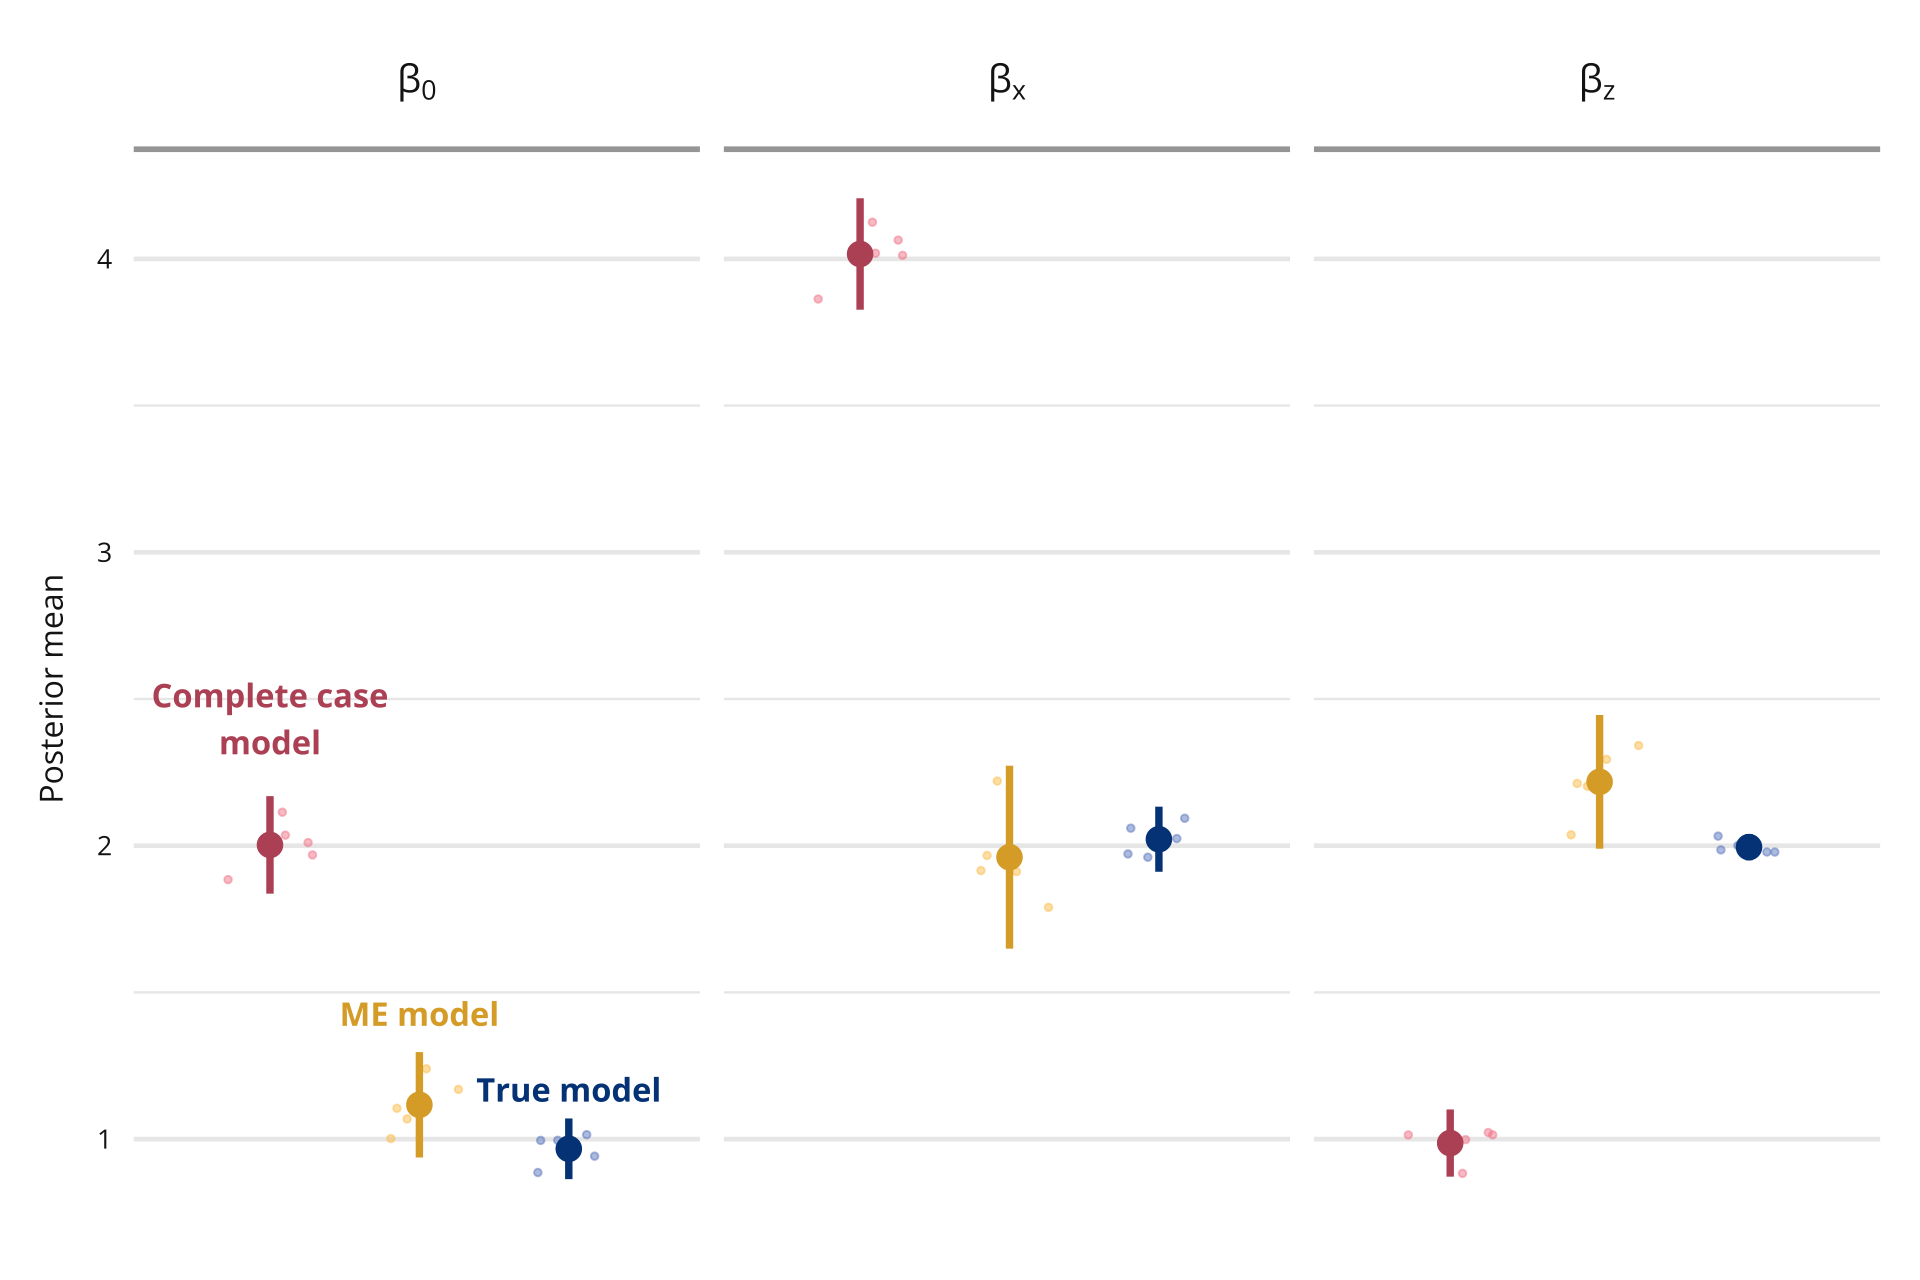
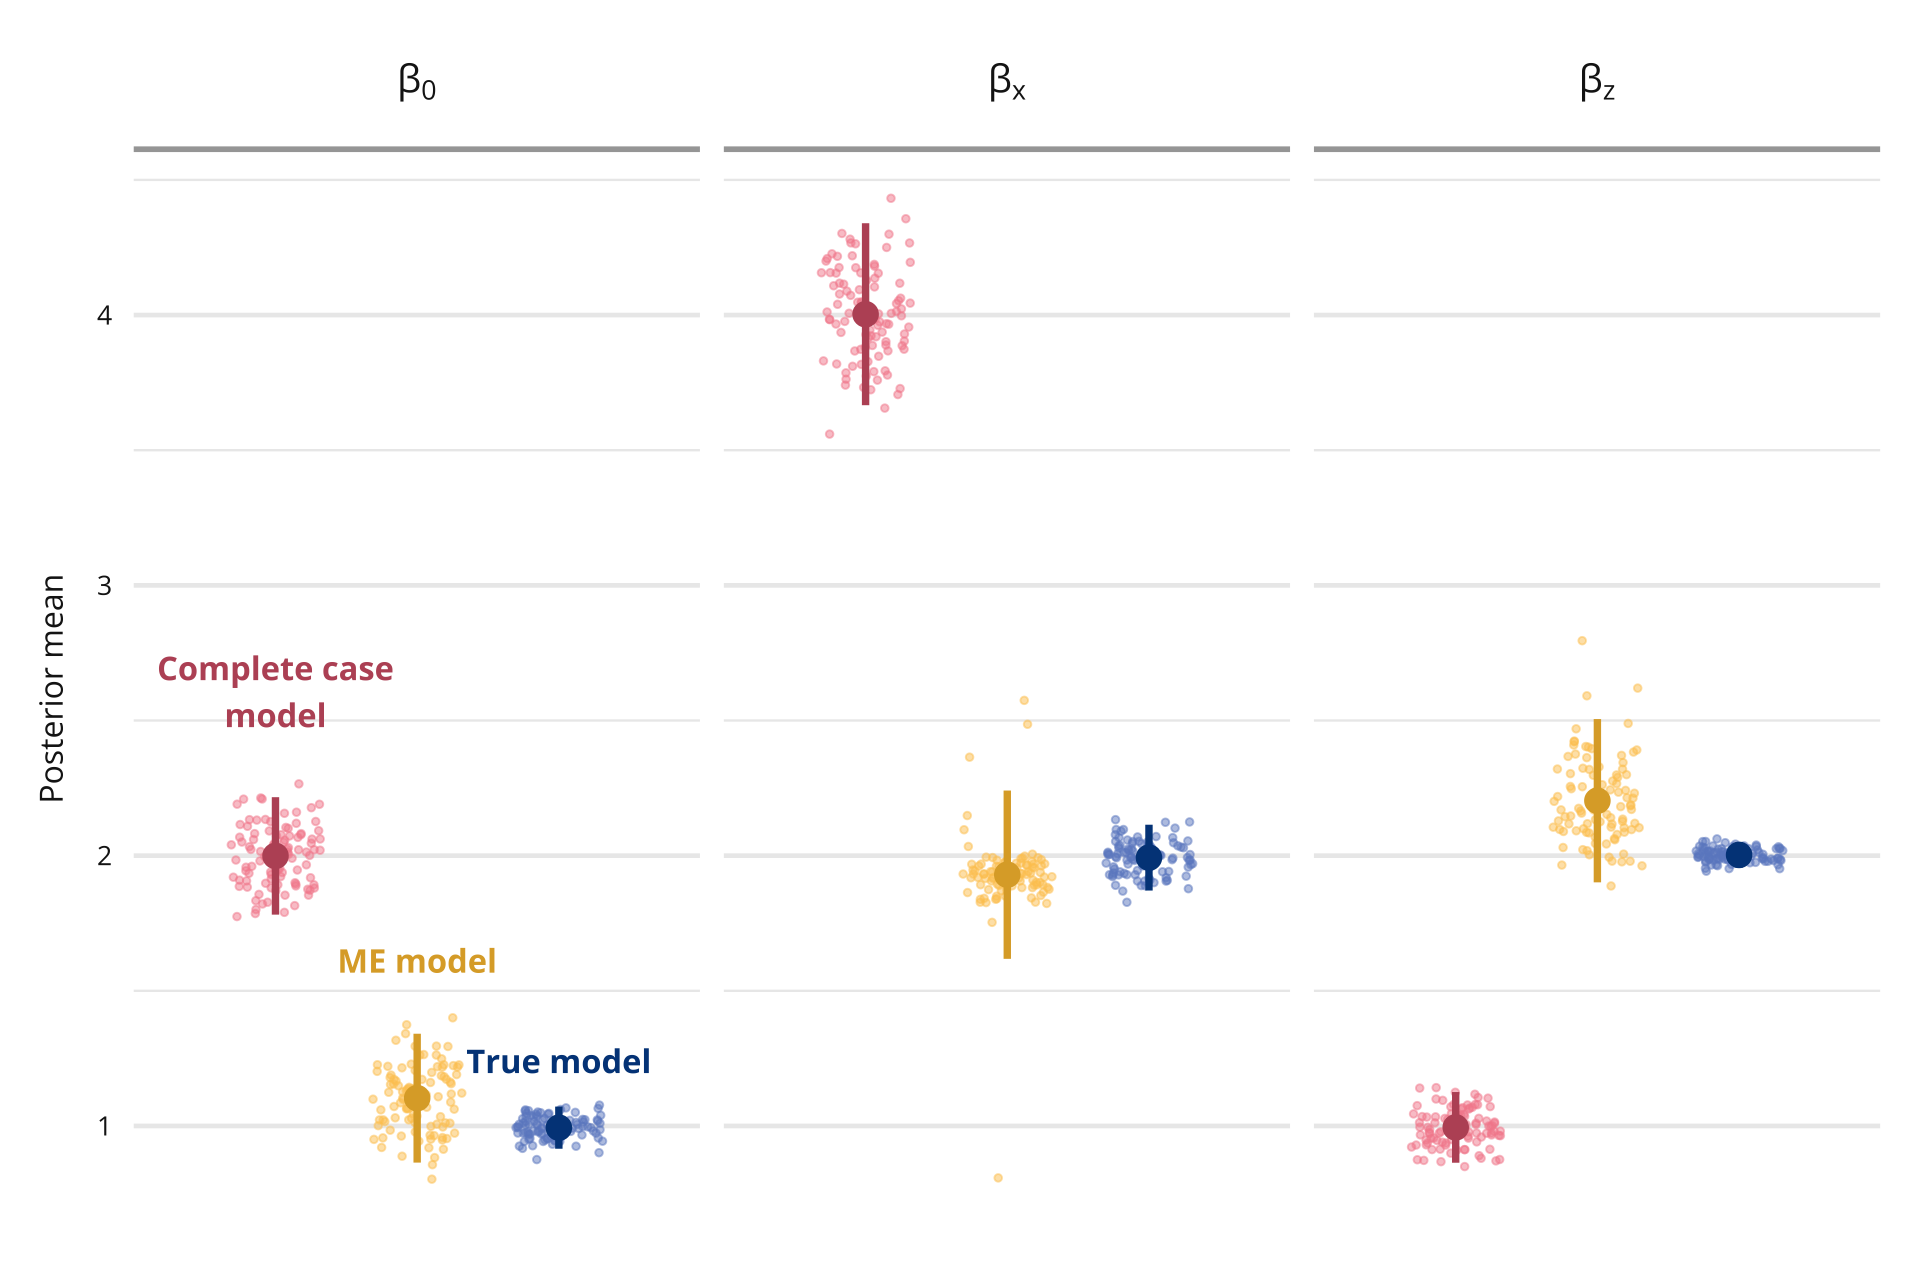
Updated simulation study (ran 100 times)

diff --git a/docs/simulation_study.html b/docs/simulation_study.html
@@ -493,7 +493,7 @@ code span.wa { color: #60a0b0; font-weight: bold; font-style: italic; } /* Warni
 <p>Note that this chunk may take a while to run.</p>
 <div class="cell">
 <div class="sourceCode cell-code" id="cb6"><pre class="sourceCode r code-with-copy"><code class="sourceCode r"><span id="cb6-1"><a href="#cb6-1" aria-hidden="true" tabindex="-1"></a><span class="co"># Number of iterations</span></span>
-<span id="cb6-2"><a href="#cb6-2" aria-hidden="true" tabindex="-1"></a>niter <span class="ot">&lt;-</span> <span class="dv">5</span></span>
+<span id="cb6-2"><a href="#cb6-2" aria-hidden="true" tabindex="-1"></a>niter <span class="ot">&lt;-</span> <span class="dv">100</span></span>
 <span id="cb6-3"><a href="#cb6-3" aria-hidden="true" tabindex="-1"></a></span>
 <span id="cb6-4"><a href="#cb6-4" aria-hidden="true" tabindex="-1"></a><span class="co"># Data frames to store the results </span></span>
 <span id="cb6-5"><a href="#cb6-5" aria-hidden="true" tabindex="-1"></a>results_ME <span class="ot">&lt;-</span> <span class="fu">data.frame</span>(<span class="fu">matrix</span>(<span class="cn">NA</span>, <span class="at">nrow=</span>niter, <span class="at">ncol=</span><span class="dv">5</span>))</span>
